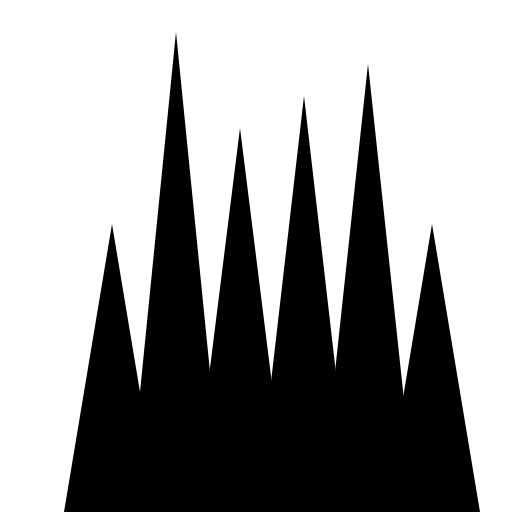
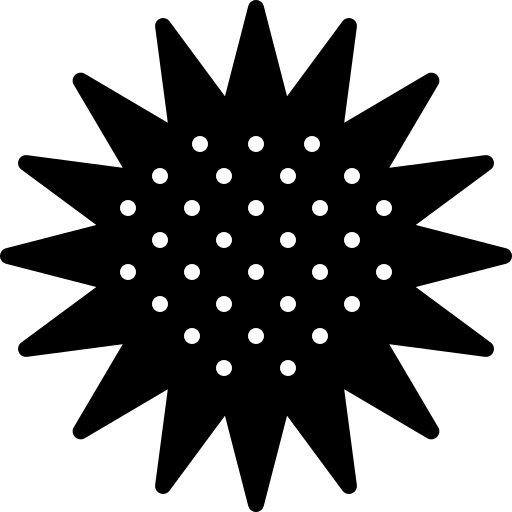
finished the first 5 levels added a flip gravity power

diff --git a/script.js b/script.js
@@ -7,12 +7,64 @@ let game = {
     mx: 0,
     my: 0,
     gravity: 2,
+    gravpower: 1,
     looping: false,
+    time_in_level:0,
     levels: [
         {
             tiles: [
                 [0, 0, 0, 0, 0, 0, 0, 0, 0, 0, 0, 0, 0,],
                 [0, 0, 0, 0, 0, 0, 0, 0, 0, 0, 0, 0, 0,],
+                [0, 0, 0, 0, 0, 0, 0, 0, 0, 0, 0, 0, 0,],
+                [0, 0, 0, 0, 0, 0, 0, 0, 0, 0, 0, 0, 0,],
+                [0, 0, 0, 0, 0, 0, 0, 0, 0, 0, 0, 0, 0,],
+                [0, 0, 0, 0, 0, 0, 0, 0, 0, 0, 0, 0, 0,],
+                [0, 0, 0, 0, 0, 0, 0, 0, 0, 0, 0, 0, 0,],
+                [0, 0, 0, 0, 0, 0, 0, 0, 0, 0, 0, 0, 0,],
+                [0, 2, 0, 0, 0, 0, 0, 0, 0, 0, 0, 0, 0,],
+                [0, 0, 0, 0, 0, 0, 0, 0, 0, 0, 0, 0, 3,],
+                [1, 1, 1, 1, 1, 1, 1, 1, 1, 1, 1, 1, 1,],
+                [0, 0, 0, 0, 0, 0, 0, 0, 0, 0, 0, 0, 0,],
+                [0, 0, 0, 0, 0, 0, 0, 0, 0, 0, 0, 0, 0,],
+                [0, 0, 0, 0, 0, 0, 0, 0, 0, 0, 0, 0, 0,],
+                [0, 0, 0, 0, 0, 0, 0, 0, 0, 0, 0, 0, 0,],
+
+            ],
+            width: 13,
+            height: 15,
+            tekst: ["press a and d to move, reach the flag to win"]
+
+        },
+        {
+            tiles: [
+                [0, 0, 0, 0, 0, 0, 0, 0, 0, 0, 0, 0, 0,],
+                [0, 0, 0, 0, 0, 0, 0, 0, 0, 0, 0, 0, 0,],
+                [0, 0, 0, 0, 0, 0, 0, 0, 0, 0, 0, 0, 0,],
+                [0, 0, 0, 0, 0, 0, 0, 0, 0, 0, 0, 0, 0,],
+                [0, 0, 0, 0, 0, 0, 0, 0, 0, 0, 0, 0, 0,],
+                [0, 0, 0, 0, 0, 0, 0, 0, 0, 0, 0, 0, 0,],
+                [0, 0, 0, 0, 0, 0, 0, 0, 0, 0, 0, 0, 0,],
+                [0, 0, 0, 0, 0, 0, 0, 0, 0, 0, 0, 0, 0,],
+                [0, 2, 0, 0, 0, 0, 0, 0, 0, 0, 0, 0, 3,],
+                [0, 0, 0, 0, 0, 0, 0, 0, 0, 0, 0, 1, 1,],
+                [1, 1, 1, 1, 1, 1, 1, 1, 1, 1, 0, 0, 0,],
+                [0, 0, 0, 0, 0, 0, 0, 0, 0, 0, 0, 0, 0,],
+                [0, 0, 0, 0, 0, 0, 0, 0, 0, 0, 0, 0, 0,],
+                [0, 0, 0, 0, 0, 0, 0, 0, 0, 0, 0, 0, 0,],
+                [4, 4, 4, 4, 4, 4, 4, 4, 4, 4, 4, 4, 4,],
+
+            ],
+            width: 13,
+            height: 15,
+            tekst: ["spikes send you back to the beginning,",
+                "you can jump by pressing w or spacebar"
+            ],
+
+        },
+        {
+            tiles: [
+                [0, 0, 0, 0, 0, 0, 0, 0, 0, 0, 0, 0, 0,],
+                [0, 0, 0, 0, 0, 0, 0, 0, 0, 0, 0, 0, 0,],
                 [3, 0, 0, 0, 0, 0, 0, 0, 0, 0, 0, 0, 0,],
                 [1, 1, 0, 0, 0, 0, 0, 0, 0, 0, 0, 0, 0,],
                 [0, 0, 0, 0, 0, 0, 0, 0, 0, 0, 0, 0, 0,],
@@ -34,17 +86,17 @@ let game = {
         },
         {
             tiles: [
+                [4, 4, 4, 4, 4, 4, 4, 4, 4, 4, 4, 4, 4,],
+                [0, 0, 0, 0, 0, 0, 0, 0, 0, 0, 0, 0, 0,],
+                [0, 0, 0, 0, 0, 0, 0, 1, 1, 1, 0, 0,],
+                [0, 0, 0, 0, 0, 0, 0, 0, 0, 0, 0, 0, 0,],
+                [0, 0, 1, 1, 1, 0, 1, 1, 0, 0, 0, 0, 0,],
                 [0, 0, 0, 0, 0, 0, 0, 0, 0, 0, 0, 0, 0,],
                 [0, 0, 0, 0, 0, 0, 0, 0, 0, 0, 0, 0, 0,],
-                [3, 0, 0, 0, 0, 0, 0, 0, 0, 0, 0, 0, 0,],
-                [1, 1, 0, 0, 0, 0, 0, 0, 0, 0, 0, 0, 0,],
                 [0, 0, 0, 0, 0, 0, 0, 0, 0, 0, 0, 0, 0,],
-                [0, 0, 0, 1, 1, 0, 0, 0, 0, 0, 0, 0, 0,],
-                [0, 0, 0, 0, 0, 0, 0, 0, 0, 0, 0, 0, 0,],
-                [0, 0, 0, 0, 0, 0, 0, 1, 1, 1, 0, 0, 0,],
                 [0, 2, 0, 0, 0, 0, 0, 0, 0, 0, 0, 0, 0,],
-                [0, 0, 0, 0, 1, 1, 0, 0, 0, 0, 0, 0, 0,],
-                [1, 1, 1, 0, 0, 0, 0, 0, 0, 0, 0, 0, 0,],
+                [0, 0, 0, 0, 0, 0, 0, 0, 0, 0, 0, 0, 3,],
+                [1, 1, 1, 0, 0, 0, 0, 0, 0, 0, 1, 1, 1,],
                 [0, 0, 0, 0, 0, 0, 0, 0, 0, 0, 0, 0, 0,],
                 [0, 0, 0, 0, 0, 0, 0, 0, 0, 0, 0, 0, 0,],
                 [0, 0, 0, 0, 0, 0, 0, 0, 0, 0, 0, 0, 0,],
@@ -53,29 +105,38 @@ let game = {
             ],
             width: 13,
             height: 15,
+            tekst: ["try pressing e"],
+            sys_break: () => {
+                game.gravpower *= -1
+            }
 
         },
         {
             tiles: [
-                [0, 0, 0, 0, 0, 0, 0, 0, 0, 0, 0, 0, 0,],
-                [0, 0, 0, 0, 0, 0, 0, 0, 0, 0, 0, 0, 0,],
-                [3, 0, 0, 0, 0, 0, 0, 0, 0, 0, 0, 0, 0,],
-                [1, 1, 0, 0, 0, 0, 0, 0, 0, 0, 0, 0, 0,],
-                [0, 0, 0, 0, 0, 0, 0, 0, 0, 0, 0, 0, 0,],
-                [0, 0, 0, 1, 1, 0, 0, 0, 0, 0, 0, 0, 0,],
-                [0, 0, 0, 0, 0, 0, 0, 0, 0, 0, 0, 0, 0,],
-                [0, 0, 0, 0, 0, 0, 0, 1, 1, 0, 0, 0, 0,],
-                [0, 2, 0, 0, 0, 0, 0, 0, 0, 0, 0, 0, 0,],
-                [0, 0, 0, 0, 1, 1, 0, 0, 0, 0, 0, 0, 0,],
-                [1, 1, 1, 0, 0, 0, 0, 0, 0, 0, 0, 0, 0,],
+                [4, 4, 4, 4, 4, 4, 4, 4, 4, 4, 4, 4, 4,],
+                [0, 0, 0, 0, 0, 1, 1, 0, 0, 0, 0, 0, 0,],
                 [0, 0, 0, 0, 0, 0, 0, 0, 0, 0, 0, 0, 0,],
                 [0, 0, 0, 0, 0, 0, 0, 0, 0, 0, 0, 0, 0,],
                 [0, 0, 0, 0, 0, 0, 0, 0, 0, 0, 0, 0, 0,],
+                [0, 0, 0, 0, 0, 0, 0, 0, 0, 0, 0, 0, 0,],
+                [0, 0, 0, 0, 0, 0, 0, 0, 0, 0, 0, 0, 0,],
+                [0, 0, 0, 0, 0, 0, 0, 0, 0, 0, 0, 0, 0,],
+                [0, 0, 0, 0, 0, 0, 0, 0, 0, 0, 0, 0, 0,],
+                [0, 0, 0, 0, 0, 0, 0, 0, 0, 0, 0, 2, 0,],
+                [0, 0, 0, 0, 0, 0, 0, 0, 0, 0, 0, 0, 0,],
+                [0, 0, 0, 0, 0, 0, 0, 0, 0, 0, 0, 0, 0,],
+                [0, 3, 0, 0, 0, 0, 0, 0, 0, 0, 0, 0, 0,],
+                [1, 1, 1, 0, 0, 0, 0, 0, 0, 0, 1, 1, 1,],
                 [4, 4, 4, 4, 4, 4, 4, 4, 4, 4, 4, 4, 4,],
 
             ],
             width: 13,
             height: 15,
+            tekst: ["isn't gravity manipulation cool,", "i think so"],
+            sys_break: () => {
+                game.gravpower *= -1
+            }
+
 
         },
         {
@@ -108,6 +169,7 @@ let game = {
         startile = this.get_playerstart()
         player.set_at_start()
         this.looping = true
+        this.time_in_level =0
         run_frame()
     },
     get_playerstart: function () {
@@ -132,6 +194,7 @@ let game = {
                 ctx.strokeStyle = this.levels_cleared >= index ? "#000000" : "#9e9e9e"
                 ctx.strokeRect(x, y, size[0] * 0.15, 100)
                 ctx.font = "48px Arial"
+                ctx.fillStyle = "black"
                 ctx.fillText(index + 1, x + size[0] * 0.06, y + 65)
 
                 if (this.levels_cleared >= index) hitboxes.push({ x: x, y: y, w: size[0] * 0.15, h: 100, i: index })
@@ -159,6 +222,7 @@ let game = {
         ctx.clearRect(0, 0, size[0], size[1])
         player.vx = 0
         player.vy = 0
+        this.gravpower = 1
         let level = await this.pick_level()
         this.start_level(level)
     }
@@ -199,6 +263,8 @@ let player = {
     retrying: 0,
     retry_max: 50,
     retryed: false,
+    break_cooldown: 0,
+    max_break_c: 20,
     mkeys: {
         "w": false,
         "a": false,
@@ -206,6 +272,7 @@ let player = {
         "d": false,
         " ": false,
         "r": false,
+        "e": false,
     },
     getangle: function () {
         let radians = Math.atan2(this.vy, this.vx);
@@ -258,6 +325,7 @@ let player = {
         return false
     },
     set_at_start: function () {
+        game.gravpower = 1
         const level = game.levels[game.current_level]
 
         const block_w = size[0] / level.width
@@ -270,6 +338,9 @@ let player = {
 
 const spikeImg = new Image()
 spikeImg.src = "./assets/spikes.png"
+
+const flagimg = new Image()
+flagimg.src = "./assets/flag.png"
 
 document.addEventListener("keydown", (e) => {
     let lkey = e.key.toLowerCase()
@@ -312,6 +383,17 @@ function run_frame() {
     const block_w = size[0] / level.width
     const block_h = size[1] / level.height
 
+    if (level.tekst&& game.time_in_level< 100) {
+        ctx.font = "48px Arial"
+        ctx.fillStyle = "black"
+        y = 100
+        for (let index = 0; index < level.tekst.length; index++) {
+            const element = level.tekst[index];
+            ctx.fillText(element, 50, y)
+            y += 50
+        }
+
+    }
     for (let y = 0; y < game.levels[game.current_level].height; y++) {
         for (let x = 0; x < game.levels[game.current_level].width; x++) {
 
@@ -325,8 +407,7 @@ function run_frame() {
                 // ctx.strokeRect(x * block_w, y * block_h, block_w, block_h);
 
             } else if (tile == 3) {
-                ctx.strokeStyle = "red"
-                ctx.strokeRect(x * block_w, y * block_h, block_w, block_h);
+                ctx.drawImage(flagimg, block_w * x, block_h * y, block_w, block_h)
             } else if (tile == 4) {
                 ctx.drawImage(spikeImg, block_w * x, block_h * y, block_w, block_h)
             }
@@ -339,7 +420,7 @@ function run_frame() {
         player.vx += player.acceleration
     }
     if ((player.mkeys[" "] || player.mkeys["w"]) && (player.grounded || player.kyotime) && !player.since_jump) {
-        player.vy -= player.jump_height
+        player.vy -= player.jump_height * game.gravpower
         player.grounded = false
         player.since_jump = player.jump_cooldown
     }
@@ -368,10 +449,16 @@ function run_frame() {
         player.retryed = false
     }
 
+    if (player.mkeys.e) {
+        if (level.sys_break && !player.break_cooldown) {
+            level.sys_break()
+            player.break_cooldown = player.max_break_c
+        }
+    }
 
     if (player.since_jump) player.since_jump--
     if (player.kyotime) player.kyotime--
-
+    if (player.break_cooldown) player.break_cooldown--
 
     if (Math.abs(player.vx) > player.maxSpeed) {
         player.vx = player.maxSpeed * (player.vx / Math.abs(player.vx))
@@ -407,7 +494,7 @@ function run_frame() {
         }
 
         // falling onto floor
-        if (player.vy > 0) {
+        if (player.vy * game.gravpower > 0) {
 
             player.grounded = true
 
@@ -423,7 +510,7 @@ function run_frame() {
         player.kyotime = player.max_kyotime
     }
 
-    player.vy += game.gravity
+    player.vy += game.gravity * game.gravpower
 
     const tileX = Math.floor(player.x / block_w)
     const tileY = Math.floor(player.y / block_h)
@@ -440,6 +527,7 @@ function run_frame() {
             localStorage.setItem("levels", JSON.stringify(game.levels_cleared))
         }
     }
+    game.time_in_level++
 
     if (Math.abs(player.vx) < 0.0001) player.vx = 0
     player.draw()